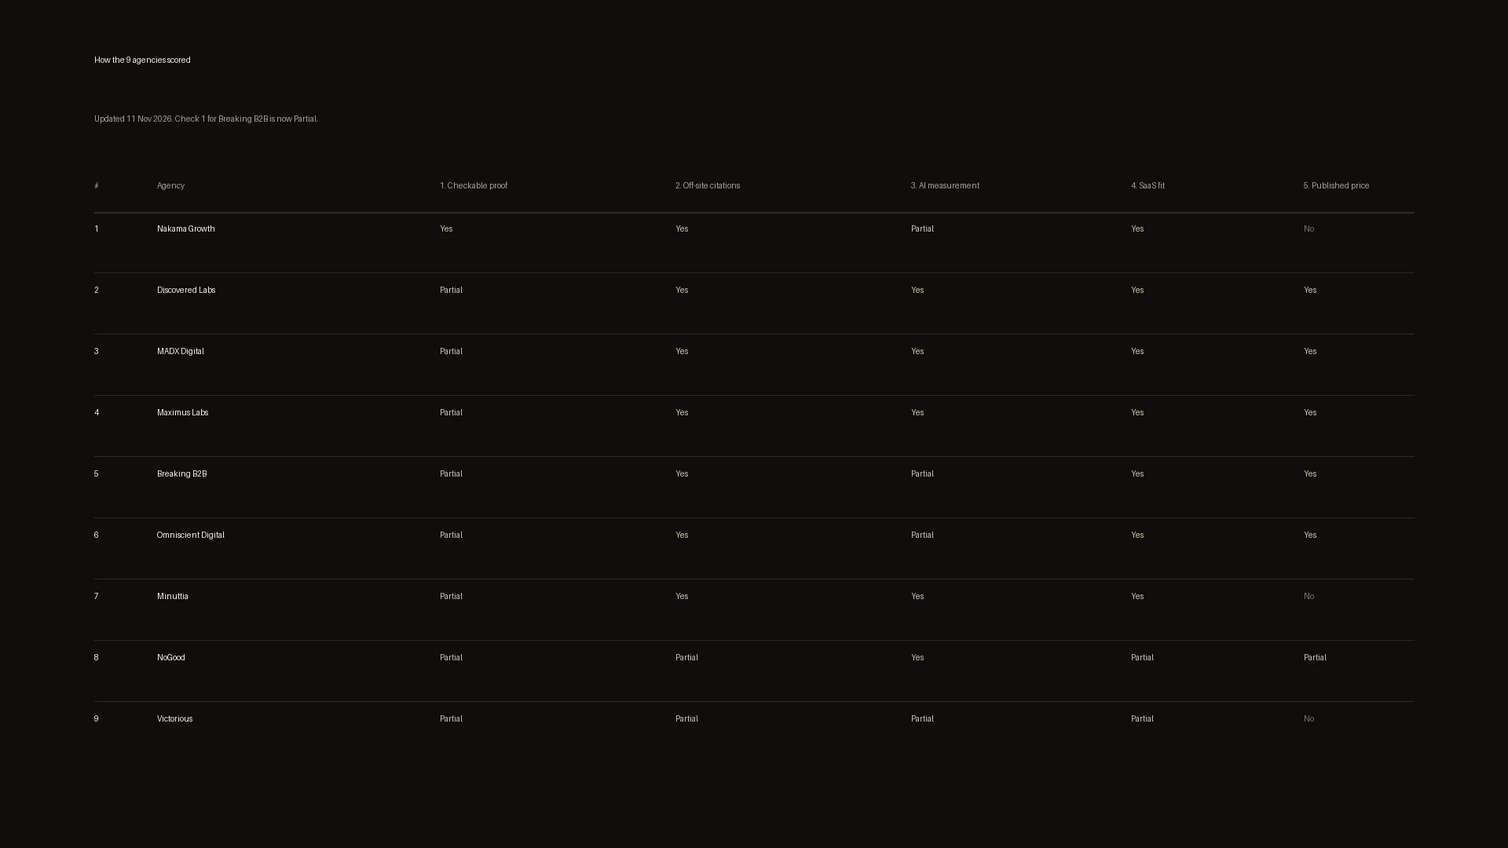
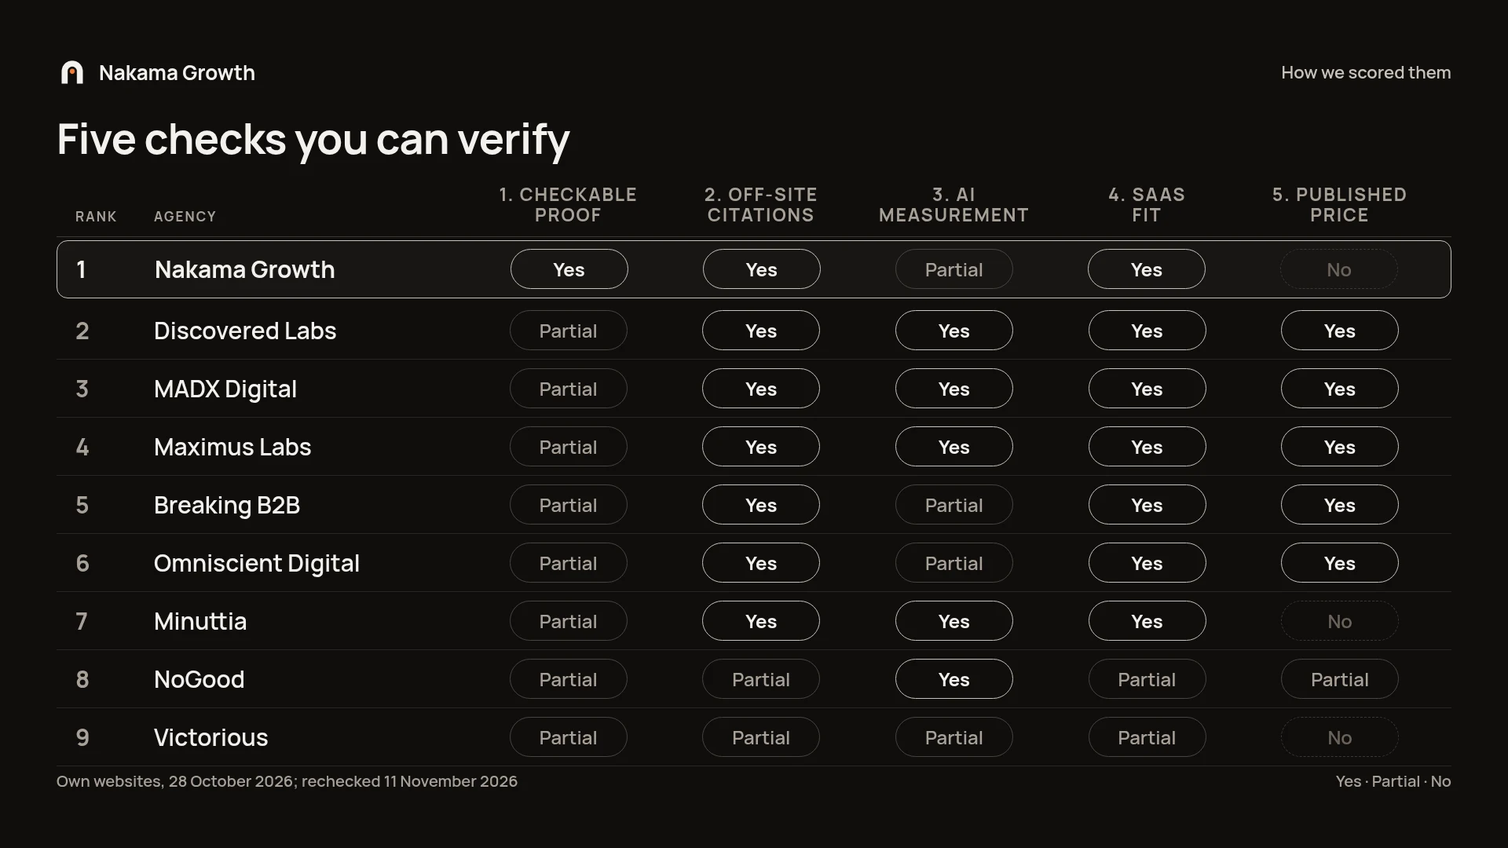
Apply Super Dude PR #99 review fixes (preview, do not merge)
Use his exact Breaking B2B Strength and matrix-note wording, switch
Reddit rank pills to 1st and 2nd, and re-render the scoring matrix
in the original template. Also apply the grammar, date, llms-full,
disclosure and ItemList should-fixes. Still preview only.

diff --git a/app/journal/best-ai-seo-agencies.ts b/app/journal/best-ai-seo-agencies.ts
@@ -63,54 +63,63 @@ const articleLd = {
     {
      "@type": "ListItem",
      "position": 1,
+     "name": "Nakama Growth",
      "url": "https://www.nakama.in/journal/best-ai-seo-agencies#1-nakama-growth",
-     "item": { "@type": "Organization", "name": "Nakama Growth", "url": "https://www.nakama.in" }
+     "item": { "@id": "https://www.nakama.in/#organization" }
     },
     {
      "@type": "ListItem",
      "position": 2,
+     "name": "Discovered Labs",
      "url": "https://www.nakama.in/journal/best-ai-seo-agencies#2-discovered-labs",
      "item": { "@type": "Organization", "name": "Discovered Labs", "url": "https://discoveredlabs.com" }
     },
     {
      "@type": "ListItem",
      "position": 3,
+     "name": "MADX Digital",
      "url": "https://www.nakama.in/journal/best-ai-seo-agencies#3-madx-digital",
      "item": { "@type": "Organization", "name": "MADX Digital", "url": "https://www.madx.digital" }
     },
     {
      "@type": "ListItem",
      "position": 4,
+     "name": "Maximus Labs",
      "url": "https://www.nakama.in/journal/best-ai-seo-agencies#4-maximus-labs",
      "item": { "@type": "Organization", "name": "Maximus Labs", "url": "https://www.maximuslabs.ai" }
     },
     {
      "@type": "ListItem",
      "position": 5,
+     "name": "Breaking B2B",
      "url": "https://www.nakama.in/journal/best-ai-seo-agencies#5-breaking-b2b",
      "item": { "@type": "Organization", "name": "Breaking B2B", "url": "https://breakingb2b.com" }
     },
     {
      "@type": "ListItem",
      "position": 6,
+     "name": "Omniscient Digital",
      "url": "https://www.nakama.in/journal/best-ai-seo-agencies#6-omniscient-digital",
      "item": { "@type": "Organization", "name": "Omniscient Digital", "url": "https://beomniscient.com" }
     },
     {
      "@type": "ListItem",
      "position": 7,
+     "name": "Minuttia",
      "url": "https://www.nakama.in/journal/best-ai-seo-agencies#7-minuttia",
      "item": { "@type": "Organization", "name": "Minuttia", "url": "https://minuttia.com" }
     },
     {
      "@type": "ListItem",
      "position": 8,
+     "name": "NoGood",
      "url": "https://www.nakama.in/journal/best-ai-seo-agencies#8-nogood",
      "item": { "@type": "Organization", "name": "NoGood", "url": "https://nogood.io" }
     },
     {
      "@type": "ListItem",
      "position": 9,
+     "name": "Victorious",
      "url": "https://www.nakama.in/journal/best-ai-seo-agencies#9-victorious",
      "item": { "@type": "Organization", "name": "Victorious", "url": "https://victorious.com" }
     }
@@ -268,8 +277,9 @@ const bodyHtml = `<nav aria-label="Breadcrumb" class="article-breadcrumb"><ol st
 <p>The best AI SEO agency for you depends on what you need most:</p>
 <ul><li>Breaking B2B: B2B SaaS teams that want pipeline-focused SEO and AI search with published tiers.</li><li>Nakama Growth: SaaS, AI and software brands that need to be named through off-site sources such as YouTube, Reddit, review sites and digital PR.</li><li>Discovered Labs: B2B SaaS teams that want month-to-month terms and an in-house AI visibility tracker.</li><li>MADX Digital: teams that want a fixed number of AI-cited placements every month at a published price.</li><li>Maximus Labs: growth-stage SaaS and AI companies that want the lowest published entry price on this list.</li></ul>
 <p>Agency pages and prices checked 28 October 2026; Breaking B2B, MADX Digital, Discovered Labs, Minuttia and Omniscient Digital rechecked 11 November 2026. Ranking updated 11 Nov 2026.</p>
+<p>Nakama Growth publishes this guide and is scored on the same five checks as every other agency; its weaknesses are listed in its entry.</p>
 <h2 id="key-takeaways">Key takeaways</h2>
-<ul><li>6 of the 9 AI SEO companies on this list show a price figure on their own site. Entry points range from USD 3,999 a month (Maximus Labs) to an average above USD 20,000 a month across all services (NoGood).</li><li>Only 1 of the 9 publish AI-answer proof tied to a specific query a buyer can re-run today: Nakama Growth.</li><li>3 agencies on Minuttia's own list (Breaking B2B, MADX Digital and Maximus Labs) now show different prices on their own sites than that list states. Always check the agency's pricing page, not a roundup, including this one.</li><li>No agency can guarantee a spot in ChatGPT or Google AI Overviews. MADX Digital says so on its own pricing page. Treat a guarantee as a red flag.</li><li>Google says no special schema or AI text file is needed to appear in AI Overviews or AI Mode. An "AI SEO package" that is only markup is not enough.</li></ul>
+<ul><li>6 of the 9 AI SEO companies on this list show a price figure on their own site. Entry points range from USD 3,999 a month (Maximus Labs) to an average above USD 20,000 a month across all services (NoGood).</li><li>Only 1 of the 9 publishes AI-answer proof tied to a specific query a buyer can re-run today: Nakama Growth.</li><li>3 agencies on Minuttia's own list (Breaking B2B, MADX Digital and Maximus Labs) now show different prices on their own sites than that list states. Always check the agency's pricing page, not a roundup, including this one.</li><li>No agency can guarantee a spot in ChatGPT or Google AI Overviews. MADX Digital says so on its own pricing page. Treat a guarantee as a red flag.</li><li>Google says no special schema or AI text file is needed to appear in AI Overviews or AI Mode. An "AI SEO package" that is only markup is not enough.</li></ul>
 <nav class="toc" aria-labelledby="toc-h"><p class="toc-head" id="toc-h">On this page <span>13 sections</span></p><ol><li><a href="#which-are-the-best-ai-seo-agencies-in-2026">Which are the best AI SEO agencies in 2026?</a></li><li><a href="#how-did-we-rank-these-ai-seo-agencies">How did we rank these AI SEO agencies?</a></li><li><a href="#what-is-an-ai-seo-agency">What is an AI SEO agency?</a></li><li><a href="#how-is-ai-seo-different-from-seo-aeo-and-geo">How is AI SEO different from SEO, AEO and GEO?</a></li><li><a href="#what-do-ai-seo-agency-services-include">What do AI SEO agency services include?</a></li><li><a href="#how-do-the-9-best-ai-seo-agencies-compare-in-detail">How do the 9 best AI SEO agencies compare in detail?</a></li><li><a href="#which-ai-seo-agency-is-best-for-saas-and-startups">Which AI SEO agency is best for SaaS and startups?</a></li><li><a href="#need-an-enterprise-shortlist">Need an enterprise shortlist?</a></li><li><a href="#how-much-does-an-ai-seo-agency-cost">How much does an AI SEO agency cost?</a></li><li><a href="#how-do-you-choose-the-best-ai-seo-agency">How do you choose the best AI SEO agency?</a></li><li><a href="#what-are-the-red-flags-when-hiring-an-ai-seo-company">What are the red flags when hiring an AI SEO company?</a></li><li><a href="#do-you-need-an-ai-seo-agency-or-an-ai-seo-tool">Do you need an AI SEO agency or an AI SEO tool?</a></li><li><a href="#frequently-asked-questions-about-ai-seo-agencies">Frequently asked questions about AI SEO agencies</a></li></ol></nav>
 <h2 id="which-are-the-best-ai-seo-agencies-in-2026">Which are the best AI SEO agencies in 2026?</h2>
 <p>The 9 best AI SEO agencies in 2026, by our evidence checks, are Nakama Growth, Discovered Labs, MADX Digital, Maximus Labs, Breaking B2B, Omniscient Digital, Minuttia, NoGood and Victorious. The table compares best fit, published price, AI tracking and main weakness. Every figure comes from each agency's own site on 28 October 2026, with a recheck of Breaking B2B, MADX Digital, Discovered Labs, Minuttia and Omniscient Digital on 11 November 2026, unless labeled third-party.</p>
@@ -282,7 +292,7 @@ const bodyHtml = `<nav aria-label="Breadcrumb" class="article-breadcrumb"><ol st
 <figure><picture><source srcset="/journal/best-ai-seo-agencies/best-ai-seo-agencies-matrix.webp" type="image/webp"><img src="/journal/best-ai-seo-agencies/best-ai-seo-agencies-matrix.png" alt="Matrix scoring 9 AI SEO agencies on five checks: checkable proof, off-site citations, AI measurement, SaaS fit, published price" width="1920" height="1080" loading="lazy" decoding="async"></picture></figure>
 <div class="article-table"><table><thead><tr><th scope="col">Rank</th><th scope="col">Agency</th><th scope="col">1. Checkable proof</th><th scope="col">2. Off-site citations</th><th scope="col">3. AI measurement</th><th scope="col">4. SaaS fit</th><th scope="col">5. Published price</th></tr></thead><tbody><tr><td>1</td><td>Nakama Growth</td><td>Yes</td><td>Yes</td><td>Partial</td><td>Yes</td><td>No</td></tr><tr><td>2</td><td>Discovered Labs</td><td>Partial</td><td>Yes</td><td>Yes</td><td>Yes</td><td>Yes</td></tr><tr><td>3</td><td>MADX Digital</td><td>Partial</td><td>Yes</td><td>Yes</td><td>Yes</td><td>Yes</td></tr><tr><td>4</td><td>Maximus Labs</td><td>Partial</td><td>Yes</td><td>Yes</td><td>Yes</td><td>Yes</td></tr><tr><td>5</td><td>Breaking B2B</td><td>Partial</td><td>Yes</td><td>Partial</td><td>Yes</td><td>Yes</td></tr><tr><td>6</td><td>Omniscient Digital</td><td>Partial</td><td>Yes</td><td>Partial</td><td>Yes</td><td>Yes</td></tr><tr><td>7</td><td>Minuttia</td><td>Partial</td><td>Yes</td><td>Yes</td><td>Yes</td><td>No</td></tr><tr><td>8</td><td>NoGood</td><td>Partial</td><td>Partial</td><td>Yes</td><td>Partial</td><td>Partial</td></tr><tr><td>9</td><td>Victorious</td><td>Partial</td><td>Partial</td><td>Partial</td><td>Partial</td><td>No</td></tr></tbody></table></div>
 <p>Notes on the matrix:</p>
-<ul><li>Nakama Growth is the only agency that ties a named client to an AI-answer query a buyer can re-run. Its Work page lists the exact searches behind five clients' placements, with a button to re-run each one. Breaking B2B's <a href="https://www.breakingb2b.com/customer-results/proposify">Proposify case study</a> names the Google head term 'proposal software' and reports AI search visitors up 91% (self-reported), not an AI-answer query a buyer can re-run.</li><li>Nakama Growth wins the off-site check most broadly: YouTube end to end, disclosed Reddit and Quora participation, Medium, Substack and LinkedIn placements, digital PR and G2 review presence sit in one plan. It loses on price (custom quote) and on measurement (partner tools, no own tracker).</li><li>Discovered Labs, MADX Digital and Maximus Labs tie on the same pattern and are listed alphabetically.</li><li>Minuttia's price is No because no price appears on its own site. Clutch's USD 5,000+ minimum is third-party.</li><li>NoGood's price is Partial because the USD 20,000+ figure is an average across all its services.</li></ul>
+<ul><li>Nakama Growth is the only agency here that ties named clients to the exact AI searches behind them, with a button to re-run each one. Breaking B2B's <a href="https://www.breakingb2b.com/customer-results/proposify">Proposify case study</a> names the Google query 'proposal software' and reports AI search visitors up 91% (self-reported), but names no AI query, so it scores Partial.</li><li>Nakama Growth wins the off-site check most broadly: YouTube end to end, disclosed Reddit and Quora participation, Medium, Substack and LinkedIn placements, digital PR and G2 review presence sit in one plan. It loses on price (custom quote) and on measurement (partner tools, no own tracker).</li><li>Discovered Labs, MADX Digital and Maximus Labs tie on the same pattern and are listed alphabetically, as are Breaking B2B and Omniscient Digital. Omniscient Digital ranks above Minuttia because both have 2 Yes in checks 3 to 5 and Omniscient Digital also has a Partial there.</li><li>Minuttia's price is No because no price appears on its own site. Clutch's USD 5,000+ minimum is third-party.</li><li>NoGood's price is Partial because the USD 20,000+ figure is an average across all its services.</li></ul>
 <p>Every entry below includes a weakness.</p>
 <h2 id="what-is-an-ai-seo-agency">What is an AI SEO agency?</h2>
 <p>An AI SEO agency, sometimes searched as an SEO AI agency, optimizes a brand for both search engines and AI assistants. It wins Google rankings and also gets the brand named, cited and recommended in ChatGPT, Perplexity, Gemini, Claude, Google AI Overviews and AI Mode. The goal is visibility wherever buyers ask, not faster blog output.</p>
@@ -334,7 +344,7 @@ const bodyHtml = `<nav aria-label="Breadcrumb" class="article-breadcrumb"><ol st
 <h3 id="5-breaking-b2b">5. Breaking B2B</h3>
 <p><strong>Best for:</strong> B2B and SaaS companies that measure AI SEO in demos and pipeline.</p>
 <p><strong>Services:</strong> Technical SEO, content and strategy, link building, conversion and site structure, Reddit marketing and YouTube marketing, plus dedicated answer engine optimization, generative engine optimization and LLM SEO pages. It works with B2B and SaaS companies only.</p>
-<p><strong>Strength:</strong> Pipeline focus with visible capacity. Every tier on its pricing page lists money keywords and prompts targeted, content pieces per month and link or brand mention credits. Two link credits buy one listicle mention, which makes off-site AI citation work countable. Its reported Proposify result names the Google head term 'proposal software' and reports AI search visitors up 91% (self-reported), not an AI-answer query a buyer can re-run.</p>
+<p><strong>Strength:</strong> Pipeline focus with visible capacity. Every tier on its pricing page lists money keywords and prompts targeted, content pieces per month and link or brand mention credits. Two link credits buy one listicle mention, which makes off-site AI citation work countable. Its Proposify case study names the Google query 'proposal software' and reports AI search visitors up 91% (self-reported).</p>
 <p><strong>Pricing:</strong> Light from USD 4,600 a month on a 12-month term, per its <a href="https://www.breakingb2b.com/pricing">pricing page</a>. Silver USD 6,000 a month on 12 months or USD 6,500 on 6 months (7 content pieces, 4 placement credits). Gold USD 8,000, Growth Team USD 9,000, Diamond USD 10,200, Aggressive Growth USD 15,200, and Category King from USD 20,000 a month.</p>
 <p><strong>Weakness:</strong> Terms are 6 or 12 months, so there is no month-to-month test. Its pricing page does not name which AI engines it tracks. Minuttia's roundup still says "no 12-month contracts", which no longer matches the pricing page.</p>
 <p><strong>Choose if:</strong> demo pipeline is your north star and you want countable monthly output.</p>
@@ -441,7 +451,8 @@ export const bestAiSeoAgenciesArticle: Article = {
    "Best AI SEO agencies in 2026: 9 compared on real AI visibility proof",
    `Updated ${modifiedDate}`,
    "By Yash Kumar, Co-founder and CEO, Nakama Growth",
-   "Agency pages and prices checked 28 October 2026; Breaking B2B, MADX Digital, Discovered Labs, Minuttia and Omniscient Digital rechecked 11 November 2026. Ranking updated 11 Nov 2026."
+   "Agency pages and prices checked 28 October 2026; Breaking B2B, MADX Digital, Discovered Labs, Minuttia and Omniscient Digital rechecked 11 November 2026. Ranking updated 11 Nov 2026.",
+   "Nakama Growth publishes this guide and is scored on the same five checks as every other agency; its weaknesses are listed in its entry."
   ]
  },
  {
@@ -455,14 +466,15 @@ export const bestAiSeoAgenciesArticle: Article = {
    "Discovered Labs: B2B SaaS teams that want month-to-month terms and an in-house AI visibility tracker.",
    "MADX Digital: teams that want a fixed number of AI-cited placements every month at a published price.",
    "Maximus Labs: growth-stage SaaS and AI companies that want the lowest published entry price on this list.",
-   "Agency pages and prices checked 28 October 2026; Breaking B2B, MADX Digital, Discovered Labs, Minuttia and Omniscient Digital rechecked 11 November 2026. Ranking updated 11 Nov 2026."
+   "Agency pages and prices checked 28 October 2026; Breaking B2B, MADX Digital, Discovered Labs, Minuttia and Omniscient Digital rechecked 11 November 2026. Ranking updated 11 Nov 2026.",
+   "Nakama Growth publishes this guide and is scored on the same five checks as every other agency; its weaknesses are listed in its entry."
   ]
  },
  {
   "heading": "Key takeaways",
   "paragraphs": [
    "6 of the 9 AI SEO companies on this list show a price figure on their own site. Entry points range from USD 3,999 a month (Maximus Labs) to an average above USD 20,000 a month across all services (NoGood).",
-   "Only 1 of the 9 publish AI-answer proof tied to a specific query a buyer can re-run today: Nakama Growth.",
+   "Only 1 of the 9 publishes AI-answer proof tied to a specific query a buyer can re-run today: Nakama Growth.",
    "3 agencies on Minuttia's own list (Breaking B2B, MADX Digital and Maximus Labs) now show different prices on their own sites than that list states. Always check the agency's pricing page, not a roundup, including this one.",
    "No agency can guarantee a spot in ChatGPT or Google AI Overviews. MADX Digital says so on its own pricing page. Treat a guarantee as a red flag.",
    "Google says no special schema or AI text file is needed to appear in AI Overviews or AI Mode. An \"AI SEO package\" that is only markup is not enough."
@@ -506,9 +518,9 @@ export const bestAiSeoAgenciesArticle: Article = {
    "8 | NoGood | Partial | Partial | Yes | Partial | Partial",
    "9 | Victorious | Partial | Partial | Partial | Partial | No",
    "Notes on the matrix:",
-   "Nakama Growth is the only agency that ties a named client to an AI-answer query a buyer can re-run. Its Work page lists the exact searches behind five clients' placements, with a button to re-run each one. Breaking B2B's Proposify case study names the Google head term 'proposal software' and reports AI search visitors up 91% (self-reported), not an AI-answer query a buyer can re-run.",
+   "Nakama Growth is the only agency here that ties named clients to the exact AI searches behind them, with a button to re-run each one. Breaking B2B's Proposify case study names the Google query 'proposal software' and reports AI search visitors up 91% (self-reported), but names no AI query, so it scores Partial.",
    "Nakama Growth wins the off-site check most broadly: YouTube end to end, disclosed Reddit and Quora participation, Medium, Substack and LinkedIn placements, digital PR and G2 review presence sit in one plan. It loses on price (custom quote) and on measurement (partner tools, no own tracker).",
-   "Discovered Labs, MADX Digital and Maximus Labs tie on the same pattern and are listed alphabetically.",
+   "Discovered Labs, MADX Digital and Maximus Labs tie on the same pattern and are listed alphabetically, as are Breaking B2B and Omniscient Digital. Omniscient Digital ranks above Minuttia because both have 2 Yes in checks 3 to 5 and Omniscient Digital also has a Partial there.",
    "Minuttia's price is No because no price appears on its own site. Clutch's USD 5,000+ minimum is third-party.",
    "NoGood's price is Partial because the USD 20,000+ figure is an average across all its services.",
    "Every entry below includes a weakness."
@@ -608,7 +620,7 @@ export const bestAiSeoAgenciesArticle: Article = {
   "paragraphs": [
    "Best for: B2B and SaaS companies that measure AI SEO in demos and pipeline.",
    "Services: Technical SEO, content and strategy, link building, conversion and site structure, Reddit marketing and YouTube marketing, plus dedicated answer engine optimization, generative engine optimization and LLM SEO pages. It works with B2B and SaaS companies only.",
-   "Strength: Pipeline focus with visible capacity. Every tier on its pricing page lists money keywords and prompts targeted, content pieces per month and link or brand mention credits. Two link credits buy one listicle mention, which makes off-site AI citation work countable. Its reported Proposify result names the Google head term 'proposal software' and reports AI search visitors up 91% (self-reported), not an AI-answer query a buyer can re-run.",
+   "Strength: Pipeline focus with visible capacity. Every tier on its pricing page lists money keywords and prompts targeted, content pieces per month and link or brand mention credits. Two link credits buy one listicle mention, which makes off-site AI citation work countable. Its Proposify case study names the Google query 'proposal software' and reports AI search visitors up 91% (self-reported).",
    "Pricing: Light from USD 4,600 a month on a 12-month term. Silver USD 6,000 a month on 12 months or USD 6,500 on 6 months (7 content pieces, 4 placement credits). Gold USD 8,000, Growth Team USD 9,000, Diamond USD 10,200, Aggressive Growth USD 15,200, and Category King from USD 20,000 a month.",
    "Weakness: Terms are 6 or 12 months, so there is no month-to-month test. Its pricing page does not name which AI engines it tracks. Minuttia's roundup still says \"no 12-month contracts\", which no longer matches the pricing page.",
    "Choose if: demo pipeline is your north star and you want countable monthly output.",

diff --git a/app/services/reddit/page.tsx b/app/services/reddit/page.tsx
@@ -87,7 +87,7 @@ const citeCards: {id: string; engine: ReactNode; big: string; bigHot?: boolean; 
   id: 'chatgpt',
   engine: <a href={CITE_SOURCES.chatgpt} rel="noopener noreferrer">ChatGPT</a>,
   big: '10.1%',
-  who: <>Wikipedia <span className="reddit-pill is-light">#1</span> <span className="reddit-dot-sep" aria-hidden="true">·</span> <span className="is-hot">Reddit 6.2%</span> <span className="reddit-pill">#2</span></>,
+  who: <>Wikipedia <span className="reddit-pill is-light">1st</span> <span className="reddit-dot-sep" aria-hidden="true">·</span> <span className="is-hot">Reddit 6.2%</span> <span className="reddit-pill">2nd</span></>,
   bars: [
    {label: '1. Wikipedia', value: '10.1%', width: '40.4%'},
    {label: '2. Reddit', value: '6.2%', width: '24.8%', tone: 'hot'},
@@ -99,7 +99,7 @@ const citeCards: {id: string; engine: ReactNode; big: string; bigHot?: boolean; 
   engine: <a href={CITE_SOURCES.perplexity} rel="noopener noreferrer">Perplexity</a>,
   big: '24.6%',
   bigHot: true,
-  who: <>Reddit <span className="reddit-pill">#1</span></>,
+  who: <>Reddit <span className="reddit-pill">1st</span></>,
   bars: [
    {label: '1. Reddit', value: '24.6%', width: '98.4%', tone: 'hot'},
    {label: '2. YouTube', value: '14.2%', width: '56.8%'},
@@ -110,7 +110,7 @@ const citeCards: {id: string; engine: ReactNode; big: string; bigHot?: boolean; 
   id: 'aio',
   engine: <a href={CITE_SOURCES.aio} rel="noopener noreferrer">Google AI Overviews</a>,
   big: '24.5%',
-  who: <>YouTube <span className="reddit-pill is-light">#1</span> <span className="reddit-dot-sep" aria-hidden="true">·</span> <span className="is-hot">Reddit 18.1%</span> <span className="reddit-pill">#2</span></>,
+  who: <>YouTube <span className="reddit-pill is-light">1st</span> <span className="reddit-dot-sep" aria-hidden="true">·</span> <span className="is-hot">Reddit 18.1%</span> <span className="reddit-pill">2nd</span></>,
   bars: [
    {label: '1. YouTube', value: '24.5%', width: '98.0%', tone: 'light'},
    {label: '2. Reddit', value: '18.1%', width: '72.4%', tone: 'hot'},

diff --git a/app/journal/best-geo-agencies-for-saas.ts b/app/journal/best-geo-agencies-for-saas.ts
@@ -8,7 +8,7 @@ import type {Article} from './articles';
  */
 export const BEST_GEO_AGENCIES_FOR_SAAS_PUBLISHED_AT = '2026-10-21T04:23:12+05:30';
 const PUBLISHED_AT = BEST_GEO_AGENCIES_FOR_SAAS_PUBLISHED_AT;
-const MODIFIED_AT = '2026-11-11T02:15:00+05:30';
+const MODIFIED_AT = PUBLISHED_AT;
 
 const MONTHS = ['Jan', 'Feb', 'Mar', 'Apr', 'May', 'Jun', 'Jul', 'Aug', 'Sep', 'Oct', 'Nov', 'Dec'];
 const dayOf = (iso: string) => iso.slice(0, 10);

diff --git a/app/journal/peec-ai-alternatives.ts b/app/journal/peec-ai-alternatives.ts
@@ -8,7 +8,7 @@ import type {Article} from './articles';
  */
 export const PEEC_AI_ALTERNATIVES_PUBLISHED_AT = '2026-10-18T19:32:44+05:30';
 const PUBLISHED_AT = PEEC_AI_ALTERNATIVES_PUBLISHED_AT;
-const MODIFIED_AT = '2026-11-11T02:15:00+05:30';
+const MODIFIED_AT = PUBLISHED_AT;
 
 const MONTHS = ['Jan', 'Feb', 'Mar', 'Apr', 'May', 'Jun', 'Jul', 'Aug', 'Sep', 'Oct', 'Nov', 'Dec'];
 const dayOf = (iso: string) => iso.slice(0, 10);

diff --git a/app/journal/topics-vs-keywords.ts b/app/journal/topics-vs-keywords.ts
@@ -10,7 +10,7 @@ import type {Article} from './articles';
  */
 export const TOPICS_VS_KEYWORDS_PUBLISHED_AT = '2026-10-27T09:00:00+05:30';
 const PUBLISHED_AT = TOPICS_VS_KEYWORDS_PUBLISHED_AT;
-const MODIFIED_AT = '2026-11-11T02:15:00+05:30';
+const MODIFIED_AT = PUBLISHED_AT;
 
 const MONTHS = ['Jan', 'Feb', 'Mar', 'Apr', 'May', 'Jun', 'Jul', 'Aug', 'Sep', 'Oct', 'Nov', 'Dec'];
 const dayOf = (iso: string) => iso.slice(0, 10);

diff --git a/app/journal/best-aeo-agencies-india.ts b/app/journal/best-aeo-agencies-india.ts
@@ -12,7 +12,7 @@ import type {Article} from './articles';
  */
 export const BEST_AEO_AGENCIES_INDIA_PUBLISHED_AT = '2026-10-28T09:00:00+05:30';
 const PUBLISHED_AT = BEST_AEO_AGENCIES_INDIA_PUBLISHED_AT;
-const MODIFIED_AT = '2026-11-11T02:15:00+05:30';
+const MODIFIED_AT = PUBLISHED_AT;
 const PREVIEW = false;
 
 const MONTHS = ['Jan', 'Feb', 'Mar', 'Apr', 'May', 'Jun', 'Jul', 'Aug', 'Sep', 'Oct', 'Nov', 'Dec'];

diff --git a/app/journal/best-aeo-consultants.ts b/app/journal/best-aeo-consultants.ts
@@ -12,7 +12,7 @@ import type {Article} from './articles';
  */
 export const BEST_AEO_CONSULTANTS_PUBLISHED_AT = '2026-10-29T09:00:00+05:30';
 const PUBLISHED_AT = BEST_AEO_CONSULTANTS_PUBLISHED_AT;
-const MODIFIED_AT = '2026-11-11T02:15:00+05:30';
+const MODIFIED_AT = PUBLISHED_AT;
 const PREVIEW = false;
 
 const MONTHS = ['Jan', 'Feb', 'Mar', 'Apr', 'May', 'Jun', 'Jul', 'Aug', 'Sep', 'Oct', 'Nov', 'Dec'];

diff --git a/app/journal/geo-aeo-pricing.ts b/app/journal/geo-aeo-pricing.ts
@@ -456,7 +456,7 @@ export const geoAeoPricingArticle: Article = {
   },
   {
    heading: 'FAQ',
-   paragraphs: FAQS.map(({q, a}) => `${q} ${a}`),
+   paragraphs: FAQS.map(({q, a}) => `${q} ${a.replace(/<[^>]+>/g, '')}`),
   },
   {
    heading: 'About the author',
